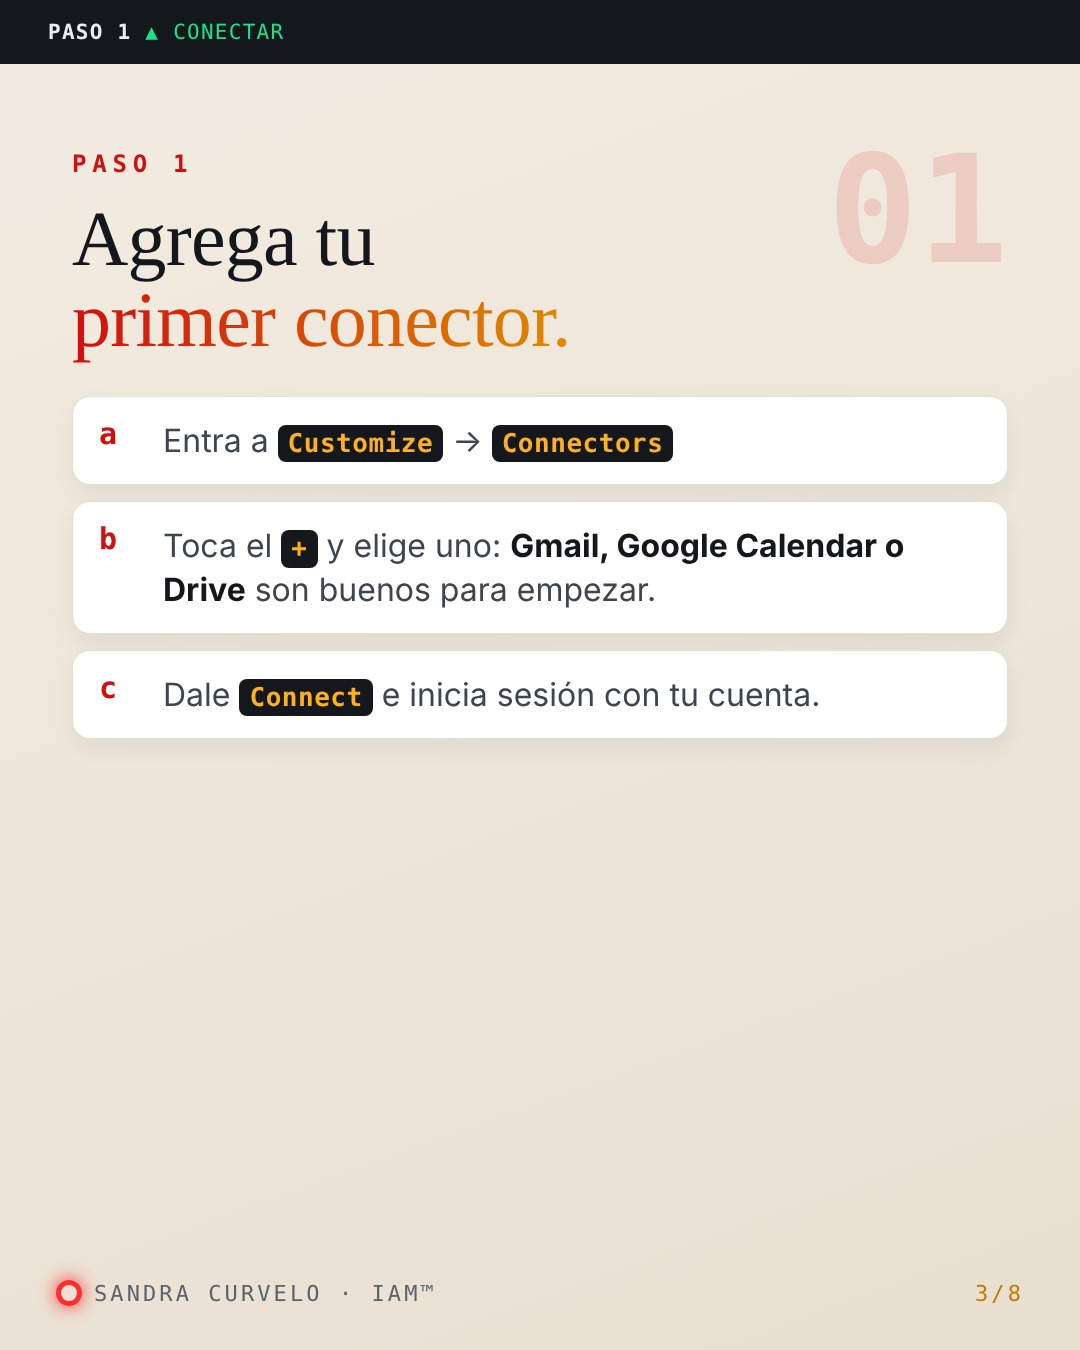
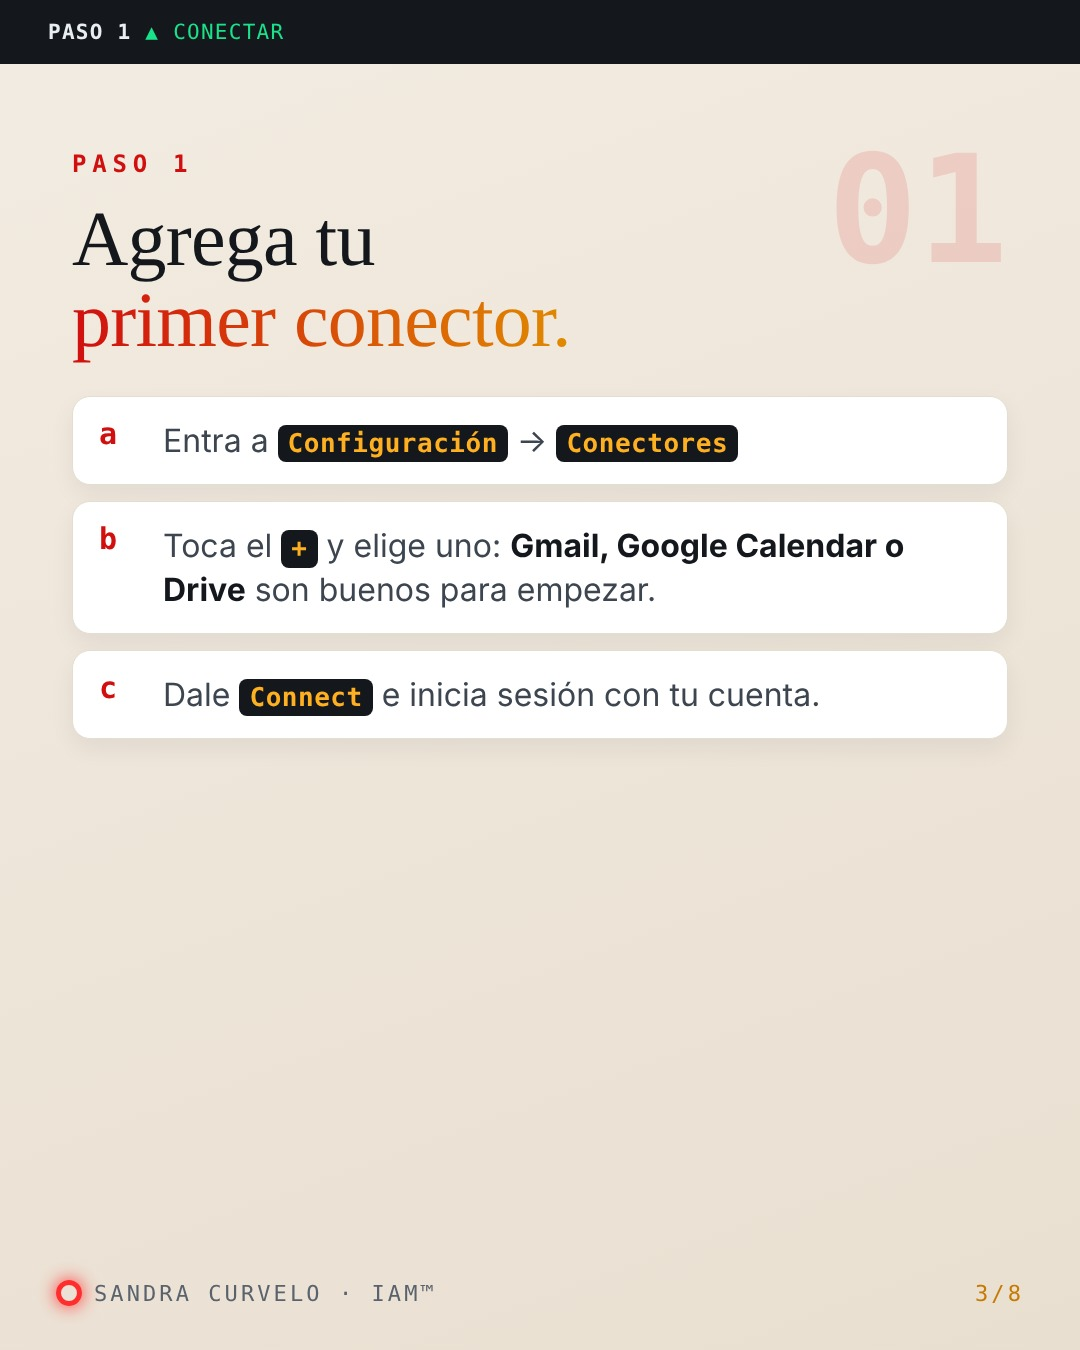
Carrusel oficina Claude: menús en español como los ve Sandra
Claude-Session: https://claude.ai/code/session_01NfWH1YnxdbRLc9ZrUJbHYq

Changed region(s): [[0.275, 0.3111, 0.7028, 0.3422]]

diff --git a/estrategia/instagram/carrusel-oficina-claude/slides.html b/estrategia/instagram/carrusel-oficina-claude/slides.html
@@ -81,7 +81,7 @@ h1 em{font-style:normal;background:linear-gradient(90deg,#ff2d2d,#ffb020);-webki
   <div class="pad" style="top:150px"><p class="eye mono">PASO 1</p>
     <h1 style="font-size:78px;margin-top:20px">Agrega tu<br><em>primer conector.</em></h1>
     <div class="steps">
-      <div class="st"><span class="k">a</span><p>Entra a <span class="ui">Customize</span> → <span class="ui">Connectors</span></p></div>
+      <div class="st"><span class="k">a</span><p>Entra a <span class="ui">Configuración</span> → <span class="ui">Conectores</span></p></div>
       <div class="st"><span class="k">b</span><p>Toca el <span class="ui">+</span> y elige uno: <b>Gmail, Google Calendar o Drive</b> son buenos para empezar.</p></div>
       <div class="st"><span class="k">c</span><p>Dale <span class="ui">Connect</span> e inicia sesión con tu cuenta.</p></div>
     </div></div><div class="brand mono"><span><span class="ring"></span>SANDRA CURVELO · IAM™</span><span class="pager">3/8</span></div>
@@ -94,7 +94,7 @@ h1 em{font-style:normal;background:linear-gradient(90deg,#ff2d2d,#ffb020);-webki
     <h1 style="font-size:78px;margin-top:20px">Enciéndelo<br><em>en el chat.</em></h1>
     <div class="steps">
       <div class="st"><span class="k">a</span><p>En el chat, toca el <span class="ui">+</span> abajo a la izquierda, o escribe <span class="ui">/</span></p></div>
-      <div class="st"><span class="k">b</span><p>Pasa por <span class="ui">Connectors</span></p></div>
+      <div class="st"><span class="k">b</span><p>Pasa por <span class="ui">Conectores</span></p></div>
       <div class="st"><span class="k">c</span><p><b>Enciende solo los que necesitas</b> para esa conversación.</p></div>
     </div></div><div class="brand mono"><span><span class="ring"></span>SANDRA CURVELO · IAM™</span><span class="pager">4/8</span></div>
 </section>
@@ -104,7 +104,7 @@ h1 em{font-style:normal;background:linear-gradient(90deg,#ff2d2d,#ffb020);-webki
   <div class="num mono">03</div>
   <div class="pad" style="top:150px"><p class="eye mono">PASO 3 · EL MÁS IMPORTANTE</p>
     <h1 style="font-size:78px;margin-top:20px">Decide qué puede<br><em>hacer solo.</em></h1>
-    <p class="body" style="margin-top:30px;font-size:34px">En <span class="ui">Customize</span> → <span class="ui">Connectors</span>, abre el conector y busca <span class="ui">Tool permissions</span>:</p>
+    <p class="body" style="margin-top:30px;font-size:34px">En <span class="ui">Configuración</span> → <span class="ui">Conectores</span>, abre el conector y busca <span class="ui">Tool permissions</span>:</p>
     <div class="chips">
       <div class="chip"><span class="dot" style="background:#19e28b"></span><span><b>Always allow:</b> leer y buscar.</span></div>
       <div class="chip"><span class="dot" style="background:#ffb020"></span><span><b>Needs approval:</b> todo lo que envía o publica a tu nombre.</span></div>
